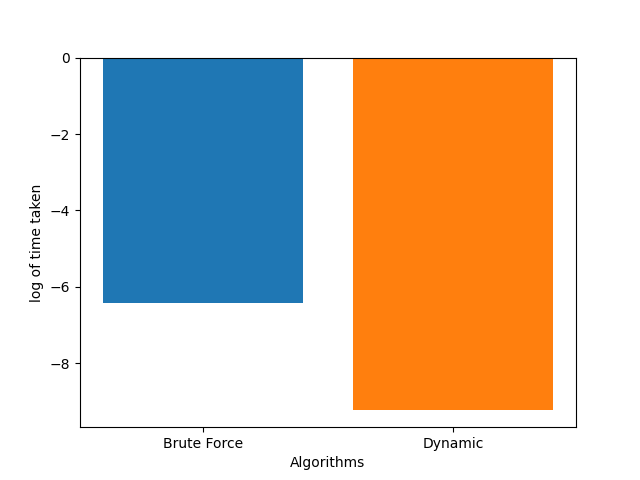
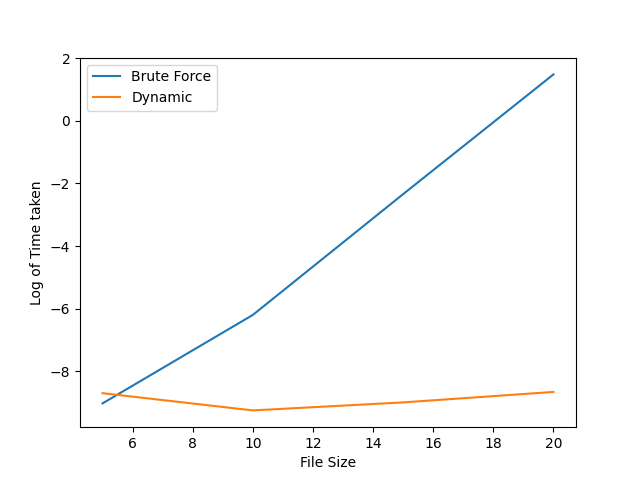
added new text files for the graph

diff --git a/Code/comparisions.py b/Code/comparisions.py
@@ -15,14 +15,21 @@ def time_taken_b():
     btime1 = end1 - start1
 
     start2 = time.time()
-    brute_combo('Input_Files/input_medium.txt')
+    brute_combo('Input_Files/input_10.txt')
     end2 = time.time()
     btime2 = end2 - start2
 
     start3 = time.time()
-    brute_combo('Input_Files/input_large.txt')
+    brute_combo('Input_Files/input_15.txt')
     end3 = time.time()
     btime3 = end3 - start3
+
+    start4 = time.time()
+    brute_combo('Input_Files/input_20.txt')
+    end4 = time.time()
+    btime4 = end4 - start4
+
+    return btime1, btime2, btime3, btime4
 
 def time_taken_d():
     # finds the time taken for the brute force algorithm to execute on each file size
@@ -32,33 +39,41 @@ def time_taken_d():
     dtime1 = end1 - start1
 
     start2 = time.time()
-    dynamic('Input_Files/input_medium.txt')
+    dynamic('Input_Files/input_10.txt')
     end2 = time.time()
     dtime2 = end2 - start2
 
     start3 = time.time()
-    dynamic('Input_Files/input_large.txt')
+    dynamic('Input_Files/input_15.txt')
     end3 = time.time()
     dtime3 = end3 - start3
 
+    start4 = time.time()
+    dynamic('Input_Files/input_20.txt')
+    end4 = time.time()
+    dtime4 = end4 - start4
+
 
     # returns both times as an array
-    return dtime1, dtime2, dtime3
+    return dtime1, dtime2, dtime3, dtime4
 
 def main():
     #runs the time_taken file and saves the results
     resb = time_taken_b()
+    resb = np.log(resb)
+
     resd = time_taken_d()
+    resd = np.log(resd)
     # takes a log of the times
-    files = ["Small","Medium","Large"]
+    files = [5,10,15,20]
     # sets the names
     names = ["Brute Force", "Dynamic"]
     
-    # runs the brute force algorithm approach 
-    plt.bar(files,resb, label = names[0])
-    plt.bar(files, resd, label = names[1])
-    plt.xlabel("Algorithms")
-    plt.ylabel("log of time taken")
+    # matplotlib function to plot the graphs 
+    plt.plot(files,resb, label = names[0])
+    plt.plot(files,resd, label = names[1])
+    plt.xlabel("File Size")
+    plt.ylabel("Log of Time taken")
     plt.legend()
     plt.autoscale()
     plt.savefig("plot.png")
